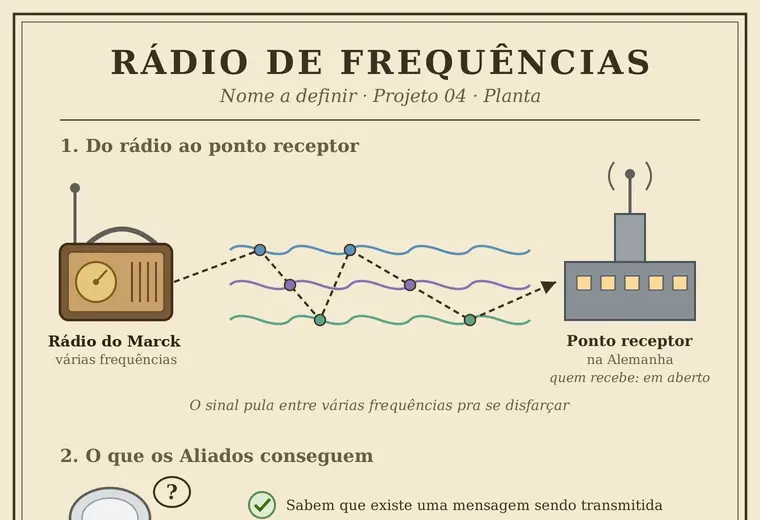
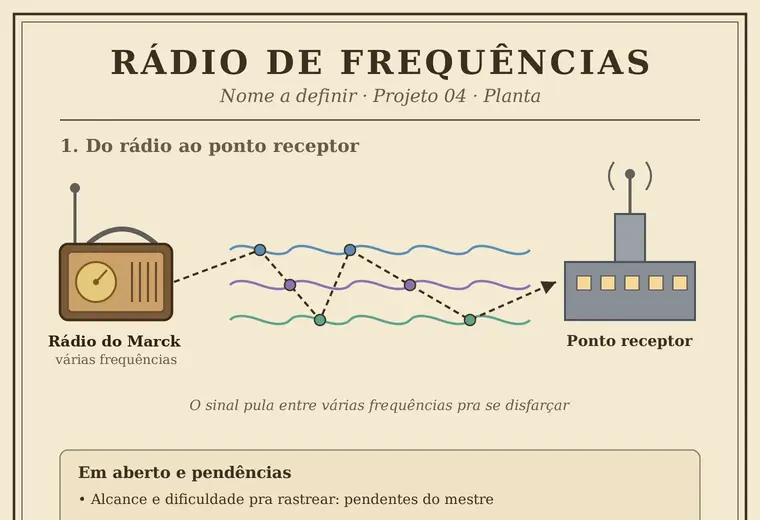
Livro de invenções sem a Hydra e sem a história do espião
Rádio de frequências sem Aliados, Alemanha e filtro (texto e planta refeita), laboratório sem
duplo-agente e sem contato do outro lado, vendas de informação e agente duplo fora dos textos.
O gerador para com erro se essas frases voltarem.

Claude-Session: https://claude.ai/code/session_01JaZPSxNdYSyuAWuxwH5iqS

Changed region(s): [[0.0605, 0.8615, 0.9382, 1.0], [0.7263, 0.6769, 0.9382, 0.7385]]

diff --git a/livro/index.html b/livro/index.html
@@ -9,7 +9,7 @@
 <link rel="preconnect" href="https://fonts.googleapis.com">
 <link rel="preconnect" href="https://fonts.gstatic.com" crossorigin>
 <link href="https://fonts.googleapis.com/css2?family=EB+Garamond:ital,wght@0,400;0,500;0,600;1,400;1,500&amp;family=IM+Fell+English:ital@0;1&amp;family=IM+Fell+English+SC&amp;display=swap" rel="stylesheet">
-<link rel="stylesheet" href="livro.css?v=2">
+<link rel="stylesheet" href="livro.css?v=3">
 <script>document.documentElement.classList.add('js')</script>
 </head>
 <body>
@@ -235,7 +235,7 @@
 </div></section>
 <section class="cap capitulo" id="cap-17" data-tipo="capitulo" data-n="17" data-titulo="Familiar mecânico"><div class="fluxo">
 <header class="cap-cab"><p class="cap-n">Projeto 17</p><h2 class="cap-nome">Familiar mecânico</h2><p class="cap-sub">sapo de cobre que espia e leva recado</p><div class="orn" aria-hidden="true"><i></i></div><p class="cap-meta"><span class="estado est-andamento">Em andamento</span><span class="sep" aria-hidden="true"> · </span><time datetime="2026-10-31">Criado em 31/10/2026</time></p><p class="selo"><span class="carimbo">Pendente de aprovação do mestre</span></p></header>
-<p class="nota">Um batedor pequeno, pro Marck espiar e mandar recado sem se expor. Liga com o agente duplo e com o <a class="ir" data-cap="cap-04" href="#cap-04">rádio (Projeto 04)</a>.</p>
+<p class="nota">Um batedor pequeno, pro Marck espiar e mandar recado sem se expor. Liga com o <a class="ir" data-cap="cap-04" href="#cap-04">rádio (Projeto 04)</a>.</p>
 <p class="corpo inicial">Um sapo de cobre do tamanho de uma mão aberta, com olho de vidro verde. Anda e pula curto, movido por uma mola de relojoeiro. Dentro tem um cristal que alimenta só os sentidos dele: uma célula de selênio atrás do olho, que sente claro e escuro, um microfone de carvão no tímpano e um coerer, que recebe ordens por rádio. Um tambor de pinos, como o de uma caixa de música, guia os movimentos.</p>
 <p class="corpo">O recado vai num papel enrolado dentro de uma cápsula de latão na boca. Também pode avisar por rádio, ligado ao Projeto 04. Ele não luta: é pequeno, lento e faz barulho de perto.</p>
 <p class="rotulo">De onde veio a ideia</p>
@@ -313,13 +313,10 @@
 <section class="cap capitulo" id="cap-04" data-tipo="capitulo" data-n="04" data-titulo="Rádio de frequências"><div class="fluxo">
 <header class="cap-cab"><p class="cap-n">Projeto 04</p><h2 class="cap-nome">Rádio de frequências</h2><p class="cap-sub">nome a definir</p><div class="orn" aria-hidden="true"><i></i></div><p class="cap-meta"><span class="estado est-uso">Em uso</span><span class="sep" aria-hidden="true"> · </span><time datetime="2026-10-23">Criado em 23/10/2026</time></p><p class="selo"><span class="carimbo aprovado">Aprovado pelo mestre</span></p></header>
 <p class="nota">Invenção do Marck, em uso</p>
-<p class="corpo inicial">O Marck fez esse rádio com um objetivo: não ser percebido como espião. É a forma que ele tem de se comunicar com os outros.</p>
+<p class="corpo inicial">O Marck fez esse rádio pra se comunicar com os outros.</p>
 <p class="corpo">O rádio é único. Em vez de falar numa frequência só, ele usa diferentes frequências, e isso disfarça o sinal. Quem escuta não consegue dizer de onde a transmissão sai.</p>
-<p class="corpo">Os Aliados sabem que existe uma mensagem sendo transmitida. Mas não conseguem acessá-la e não conseguem localizar de onde ela parte. O único ponto que dá pra achar é o que recebe, na Alemanha.</p>
-<p class="corpo">É por esse rádio que o Marck fala com a Hydra, e é nele que ele filtra tudo. A Hydra recebe só o que ele escolhe mandar.</p>
-<p class="corpo">Em aberto: quem recebe do outro lado, na Alemanha, e se os Aliados conseguiriam chegar até esse ponto.</p>
 <figure class="prancha"><a class="prancha-abrir" href="pranchas/planta-04-radio-de-frequencias.webp" target="_blank" rel="noopener" data-titulo="Planta desenhada do Projeto 04, Rádio de frequências"><img src="mini/planta-04-radio-de-frequencias.webp" width="760" height="520" loading="lazy" decoding="async" alt="Planta desenhada do Projeto 04, Rádio de frequências"></a><figcaption>Planta do projeto. <span class="dica">Toque pra abrir a prancha.</span></figcaption></figure>
-<p class="pendente">Alcance, dificuldade pra rastrear e quem recebe do outro lado pendentes de aprovação do mestre.</p>
+<p class="pendente">Alcance e dificuldade pra rastrear pendentes de aprovação do mestre.</p>
 </div></section>
 <section class="cap capitulo" id="cap-05" data-tipo="capitulo" data-n="05" data-titulo="Donnerstimme"><div class="fluxo">
 <header class="cap-cab"><p class="cap-n">Projeto 05</p><h2 class="cap-nome">Donnerstimme</h2><p class="cap-sub">Voz de Trovão</p><div class="orn" aria-hidden="true"><i></i></div><p class="cap-meta"><span class="estado est-andamento">Em andamento</span><span class="sep" aria-hidden="true"> · </span><time datetime="2026-10-24">Criado em 24/10/2026</time></p><p class="selo"><span class="carimbo aprovado">Aprovado pelo mestre</span></p></header>
@@ -402,7 +399,7 @@
 <p class="rotulo">Como ele chegou nesse lugar</p>
 <p class="corpo">O orfanato onde o Marck cresceu fica em Nova York, e foi lá que ele ganhou renome.</p>
 <p class="corpo">O apartamento é grande porque tem muitos patrocinadores por trás dele. O Marck trabalha no exército, e o dinheiro do exército vem junto com o dos patrocinadores, que ajudam e querem saber das invenções dele. Na prática, ele trabalha pro governo.</p>
-<p class="corpo">É por isso que o apartamento tem tanta coisa: ele quase não sai de lá. Sai pra comprar comida e pra voltar. Quando pega férias, vai pra Las Vegas, onde vende as informações. Ele tem dois empregos: trabalha no jornal e trabalha pro governo.</p>
+<p class="corpo">É por isso que o apartamento tem tanta coisa: ele quase não sai de lá. Sai pra comprar comida e pra voltar. Quando pega férias, vai pra Las Vegas. Ele tem dois empregos: trabalha no jornal e trabalha pro governo.</p>
 <p class="corpo">Depois dos 18 anos ele foi morar nesse apartamento e construiu o lugar aos poucos. Cada coisa dali foi feita ao longo dos anos, conforme ele foi conseguindo o que precisava, até chegar no dia de hoje.</p>
 <p class="rotulo">As salas</p>
 <ul class="pontos">
@@ -415,9 +412,9 @@
 <li><strong>Depósito:</strong> pólvora, querosene e óleo, na outra ponta do andar, longe da forja.</li>
 <li><strong>Cozinha e banho:</strong> fogão, pia, banheira e um monta-cargas pra receber material sem passar pela porta.</li>
 <li><strong>Quarto:</strong> dois beliches, quatro camas, no fim do corredor.</li>
-<li><strong>Sala secreta:</strong> só o Marck sabe. Rádio, cofre e o caderno do duplo-agente, atrás do armário da câmara escura.</li>
+<li><strong>Sala secreta:</strong> só o Marck sabe. Rádio, cofre e o caderno, atrás do armário da câmara escura.</li>
 </ul>
-<figure class="prancha"><a class="prancha-abrir" href="../img/planta-10-laboratorio.webp" target="_blank" rel="noopener" data-titulo="Planta desenhada do Projeto 10, Laboratório: planta baixa do andar, como o Marck anda por ele, sala por sala, segurança e perguntas em aberto"><img src="mini/planta-10-laboratorio.webp" width="760" height="520" loading="lazy" decoding="async" alt="Planta desenhada do Projeto 10, Laboratório: planta baixa do andar, como o Marck anda por ele, sala por sala, segurança e perguntas em aberto"></a><figcaption>Planta baixa e sala por sala. <span class="dica">Toque pra abrir a prancha.</span></figcaption></figure>
+<figure class="prancha"><a class="prancha-abrir" href="pranchas/planta-10-laboratorio.webp" target="_blank" rel="noopener" data-titulo="Planta desenhada do Projeto 10, Laboratório: planta baixa do andar, como o Marck anda por ele, sala por sala, segurança e perguntas em aberto"><img src="mini/planta-10-laboratorio.webp" width="760" height="520" loading="lazy" decoding="async" alt="Planta desenhada do Projeto 10, Laboratório: planta baixa do andar, como o Marck anda por ele, sala por sala, segurança e perguntas em aberto"></a><figcaption>Planta baixa e sala por sala. <span class="dica">Toque pra abrir a prancha.</span></figcaption></figure>
 <figure class="prancha"><a class="prancha-abrir" href="../img/planta-10b-laboratorio-corte.webp" target="_blank" rel="noopener" data-titulo="Vista isométrica em corte do andar do laboratório, em Nova York, com as salas mobiliadas"><img src="mini/planta-10b-laboratorio-corte.webp" width="760" height="520" loading="lazy" decoding="async" alt="Vista isométrica em corte do andar do laboratório, em Nova York, com as salas mobiliadas"></a><figcaption>Vista em corte do andar. <span class="dica">Toque pra abrir a prancha.</span></figcaption></figure>
 <p class="rotulo">Segurança</p>
 <ul class="pontos">
@@ -436,6 +433,6 @@
 <div class="prancha-vista" id="prancha-vista" role="dialog" aria-modal="true" aria-label="Prancha" hidden><div class="pv-barra"><p class="pv-tit" id="pv-tit"></p><a class="pv-orig" id="pv-orig" href="#" target="_blank" rel="noopener">Abrir a imagem</a><button type="button" class="pv-fechar" id="pv-fechar" aria-label="Fechar a prancha">Fechar</button></div><div class="pv-corpo" id="pv-corpo"><img id="pv-img" alt=""></div></div>
 <button type="button" class="modo-flutuante" id="modo-livro" data-acao="livro" hidden>Ler como livro</button>
 </div>
-<script src="livro.js?v=2"></script>
+<script src="livro.js?v=3"></script>
 </body>
 </html>

diff --git a/livro/gerar.py b/livro/gerar.py
@@ -27,7 +27,31 @@ TROCAS_NOME = [
     ('do Kairon', 'do Marck'),
     ('Kairon', 'Marck'),
 ]
-PROIBIDAS = ('kairon', 'flagon')
+PROIBIDAS = ('kairon', 'flagon', 'hydra', 'agente duplo', 'duplo-agente', 'espião', 'alemanha', 'contato com o outro lado', 'recebe do outro lado')
+
+# O livro também não conta que o Marck é espião: sai a Hydra, os Aliados e a Alemanha.
+REMOVER_PARAGRAFOS = ['Os Aliados sabem que existe', 'É por esse rádio que', 'Em aberto: quem recebe do outro lado']
+TROCAS_ESPIONAGEM = [
+    ('com um objetivo: não ser percebido como espião. É a forma que ele tem de se comunicar com os outros.', 'pra se comunicar com os outros.'),
+    ('Alcance, dificuldade pra rastrear e quem recebe do outro lado pendentes', 'Alcance e dificuldade pra rastrear pendentes'),
+    ('Liga com o agente duplo e com o ', 'Liga com o '),
+    (', onde vende as informações', ''),
+    ('caderno do duplo-agente', 'caderno'),
+]
+
+
+def tirar_espionagem(corpo, cap_id):
+    for p in list(corpo.find_all('p')):
+        t = p.get_text(' ', strip=True)
+        if any(t.startswith(r) for r in REMOVER_PARAGRAFOS):
+            p.decompose()
+    for no in list(corpo.find_all(string=True)):
+        t = str(no)
+        novo = t
+        for velho, nv in TROCAS_ESPIONAGEM:
+            novo = novo.replace(velho, nv)
+        if novo != t:
+            no.replace_with(novo)
 
 
 def tirar_nome(corpo, cap_id):
@@ -124,6 +148,7 @@ def figura(f):
 
 def corpo_html(corpo, cap_id=''):
     tirar_nome(corpo, cap_id)
+    tirar_espionagem(corpo, cap_id)
     # links entre projetos viram links do livro
     for a in corpo.select('a.ir'):
         alvo = a.get('data-abrir', '')
